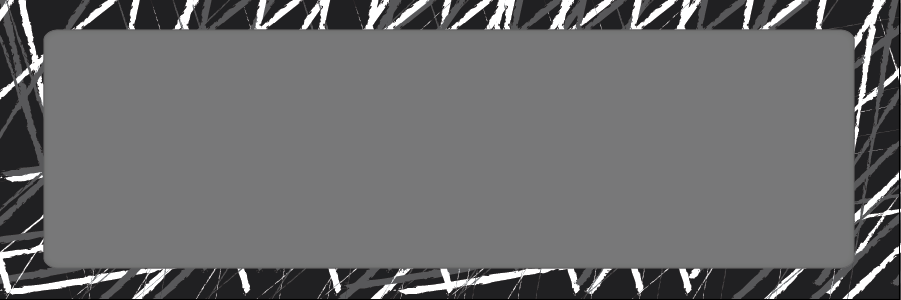
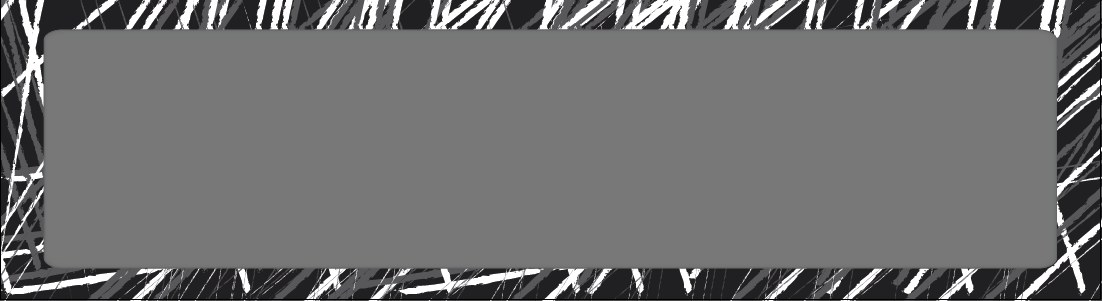
Bigger GUI for new filters and switch power amp feature on metalmachine

Changed region(s): [[0.0, 0.0, 1.0, 1.0]]

diff --git a/Buffa/MetalMachine/metal/main.js b/Buffa/MetalMachine/metal/main.js
@@ -9,7 +9,9 @@ window.MetalMachine = class MetalMachine extends WebAudioPluginCompositeNode {
         super(ctx, URL, options)
 
         this.params = {
-            status: "disable"
+            status: "disable",
+            preampPos:"before",
+            filterstate:"off"
         };
         //TODO: see the problem of disto1 undefined when we don't change preset and power on the amp
         //Param we can modify with buttons
@@ -119,7 +121,7 @@ window.MetalMachine = class MetalMachine extends WebAudioPluginCompositeNode {
     }
 
     setParam(key, value) {
-       // console.log(key, value);
+        console.log(key, value);
         try {
             this[key] = (value);
         } catch (error) {
@@ -275,6 +277,28 @@ window.MetalMachine = class MetalMachine extends WebAudioPluginCompositeNode {
     set CG(val) {
         this.params.CG = val;
         this.amp.changeRoomAmp(val);
+    }
+    set preampPos(val){
+        if(val===1) {
+            this.params.preampPos = "after";
+            this.amp.setPATS(false);
+        }
+        else {
+            this.params.preampPos = "before";
+            this.amp.setPATS(true);
+        }
+
+    }
+    set filterstate(val){
+        if(val===1) {
+            this.params.filterstate = "on";
+            
+        }
+        else {
+            this.params.filterstate = "off";
+        }
+        this.amp.powerAmp.toggleHiAndLoCutFilters();
+
     }
 
 
@@ -1047,6 +1071,7 @@ function AmpMetal(context, cabinetImpulses, reverbImpulses) {
 
     function setValuesFromPreset(parent, p) {
         console.log("LOAD PRESET : " + p.name);
+        console.log("preset: ",p);
         if (p.distoName1 === undefined) {
             p.distoName1 = "standard";
         }
@@ -1128,13 +1153,19 @@ function AmpMetal(context, cabinetImpulses, reverbImpulses) {
         parent.distoName1 = p.distoName1;
         parent.distoName2 = p.distoName2;
         parent.CG = p.CG
+        setPATS(false);
+        if(p.PREAMP_BEFORE_TONESTACK) {
+            if(p.PREAMP_BEFORE_TONESTACK ==="true")parent.preampPos = 0;
+            else parent.preampPos = 1;
+        }
+
          try {
             parent.gui.setAttribute('state', JSON.stringify(parent.params));
         } catch (error) {
             console.warn("state not setted to the GUI", error);
         }
         // default is preamp before tonestack, we need to do this for presets without power amp
-        setPATS(true);
+
 
 
         // Power amp
@@ -1153,7 +1184,8 @@ function AmpMetal(context, cabinetImpulses, reverbImpulses) {
 
         if (p.PA_ENABLED === undefined) return; // old preset without Power Amp
 
-        setPATS(p.PREAMP_BEFORE_TONESTACK); // Preamp before tonestack ?
+       // setPATS(p.PREAMP_BEFORE_TONESTACK); // Preamp before tonestack ?
+
 
         powerAmp.setHiAndLoCutFilters(p.PA_LO_HI_CUT_FILTERS_ENABLED);
         powerAmp.changeDistoType(p.PA_DISTORSION_CURVE);
@@ -1242,6 +1274,7 @@ function AmpMetal(context, cabinetImpulses, reverbImpulses) {
     }
 
     function setPATS(preampBefore) {
+        console.log("setpats",this);
         // we switch only if previous state was not the one we want
         if (isPreampBeforeTonestack() !== preampBefore) {
             changeTonestackAndPreampLocations(preampBefore);
@@ -1325,7 +1358,8 @@ function AmpMetal(context, cabinetImpulses, reverbImpulses) {
         outputGain: outputGain,
         changeTonestackAndPreampLocations: changeTonestackAndPreampLocations,
         isPreampBeforeTonestack: isPreampBeforeTonestack,
-        changePresenceFilterGainValue: changePresenceFilterGainValue
+        changePresenceFilterGainValue: changePresenceFilterGainValue,
+        setPATS: setPATS 
     };
 }
 // ----------- END OF AMP ---------------

diff --git a/Buffa/MetalMachine/metal/main.html b/Buffa/MetalMachine/metal/main.html
@@ -23,7 +23,7 @@
 			background-color: rgb(255, 255, 255);
 			font: 'metalfont', 'Arial Black';
 			display: block;
-			width: 450px;
+			width: 550px;
 			height: 150px;
 			user-select: none;
 			border-radius: 10px;
@@ -46,7 +46,7 @@
 
 
 		#background-image {
-			width: 450px;
+			width: 550px;
 			height: 150px;
 			opacity: 1;
 
@@ -70,6 +70,32 @@
 			bottom: 20px;
 			right: 10px;
 		}
+
+		#switchpreamp {
+			top: 25px;
+			left: 425px;
+		}
+
+		#preampswitchlabel {
+			color: #ffffff;
+			font-family: "metalfont";
+			font-size: 15px;
+			top: 60px;
+			left: 435px;
+		}
+		#switchfilter {
+			top: 25px;
+			left: 470px;
+		}
+
+		#filterswitchlabel {
+			color: #ffffff;
+			font-family: "metalfont";
+			font-size: 15px;
+			top: 60px;
+			left: 480px;
+		}
+
 
 		#presence {
 			left: 375px;
@@ -170,7 +196,7 @@
 
 		#label_713 {
 
-			left: 170px;
+			left: 220px;
 			top: 95px;
 			color: #f8f8f8;
 			font-family: "metalfont";
@@ -198,8 +224,18 @@
 	<div class="switchCont" id="switch1">
 		<webaudio-switch class="switch" id="switch1" height="30" width="60"></webaudio-switch>
 	</div>
+	<div class="switch" id="switchpreamp">
+		<webaudio-switch class="switch"  height="30" width="60"></webaudio-switch>
+	</div>
+	<div id="preampswitchlabel" class="label">Preamp</div>
 
-	<div class="knob  " id="presence">
+	<div class="switch" id="switchfilter">
+		<webaudio-switch class="switch"  height="30" width="60"></webaudio-switch>
+	</div>
+	<div id="filterswitchlabel"  class="label" >Filter</div>
+
+
+	<div class="knob " id="presence">
 		<webaudio-knob height="40" width="40" sprites="100" min="0" max="10" step="0.1" value="3" midilearn="1"></webaudio-knob>
 		<div style="text-align:center">Presence</div>
 	</div>
@@ -300,6 +336,14 @@
 				this._root.querySelector("#switch1").querySelector("webaudio-switch").value = 1;
 				this.isOn = true;
 			}
+			console.log(this.state.preampPos);
+			if(this.state.preampPos == "after"){
+				this._root.querySelector("#switchpreamp").querySelector("webaudio-switch").value = 1;
+
+			}
+			if(this.state.filterstate == "on"){
+				this._root.querySelector("#switchfilter").querySelector("webaudio-switch").value = 1;
+			}
 			this.knobs = this._root.querySelectorAll(".knob");
 			for (var i = 0; i < this.knobs.length; i++) {
 				this.knobs[i].querySelector("webaudio-knob").setValue(this.state[this.knobs[i].id],false);
@@ -331,6 +375,9 @@
 			});
 			// Setting up the switches imgs, those are loaded from the assets
 			this._root.querySelector("#switch1").querySelector("webaudio-switch").setAttribute('src', this._plug.URL + '/assets/switch_2.png');
+			this._root.querySelector("#switchpreamp").querySelector("webaudio-switch").setAttribute('src', this._plug.URL + '/assets/switch_2.png');
+			this._root.querySelector("#switchfilter").querySelector("webaudio-switch").setAttribute('src', this._plug.URL + '/assets/switch_2.png');
+
 		}
 
 		eventToKnob(rank) {
@@ -344,6 +391,9 @@
 			for (var i = 0; i < this.knobs.length; i++) {
 				this.eventToKnob(i);
 			}
+			console.log(this._root.querySelector("#switchpreamp").querySelector("webaudio-switch"));
+			this._root.querySelector("#switchpreamp").querySelector("webaudio-switch").addEventListener('change', (e) => this._plug.setParam("preampPos", e.target.value));
+			this._root.querySelector("#switchfilter").querySelector("webaudio-switch").addEventListener('change', (e) =>this._plug.setParam("filterstate", e.target.value));
 		}
 
 
